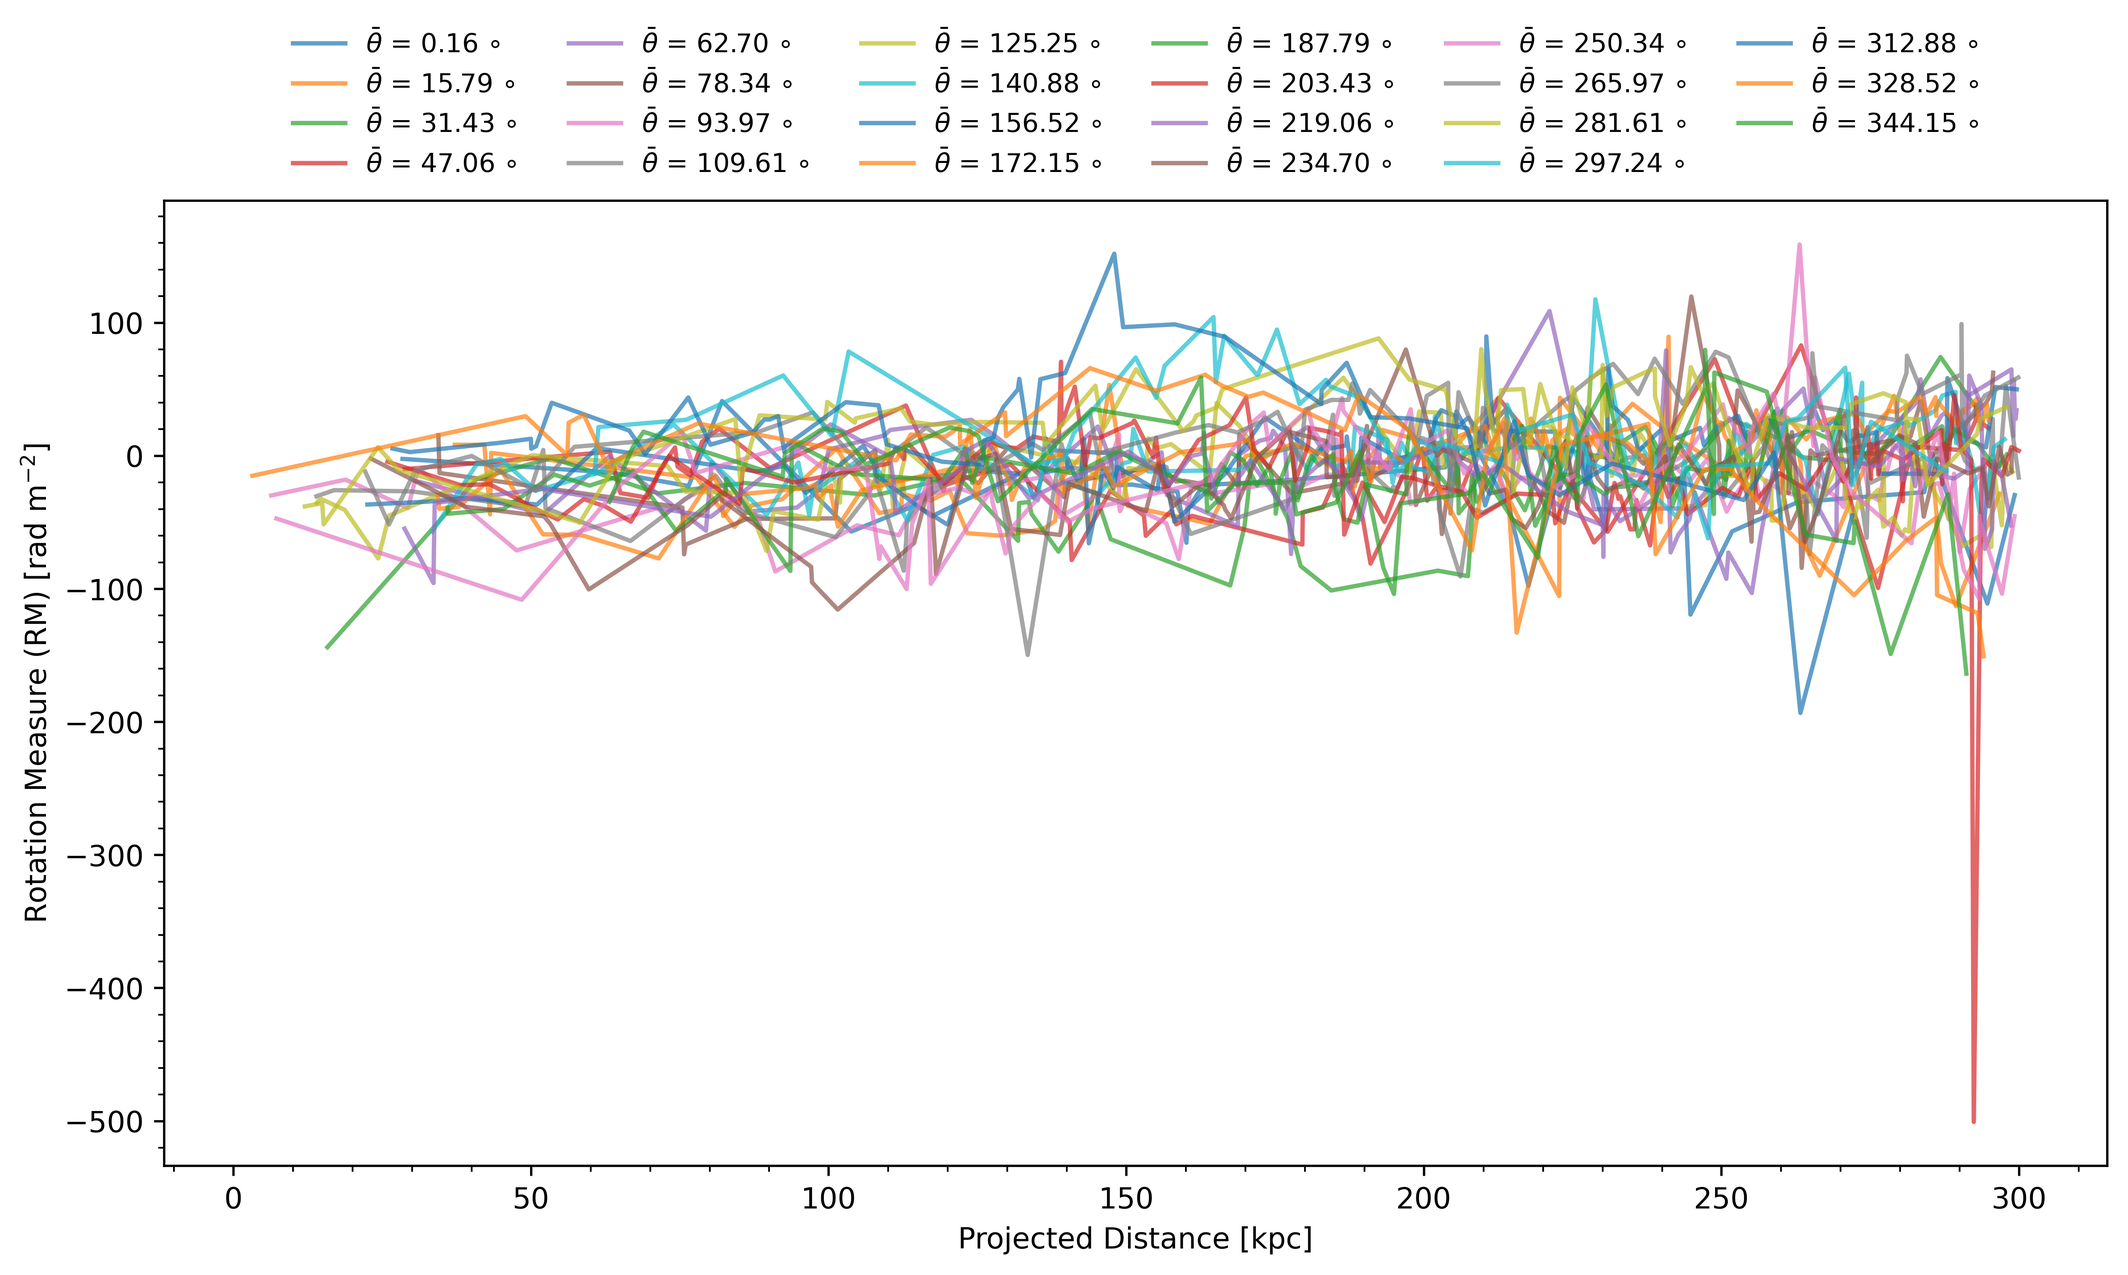
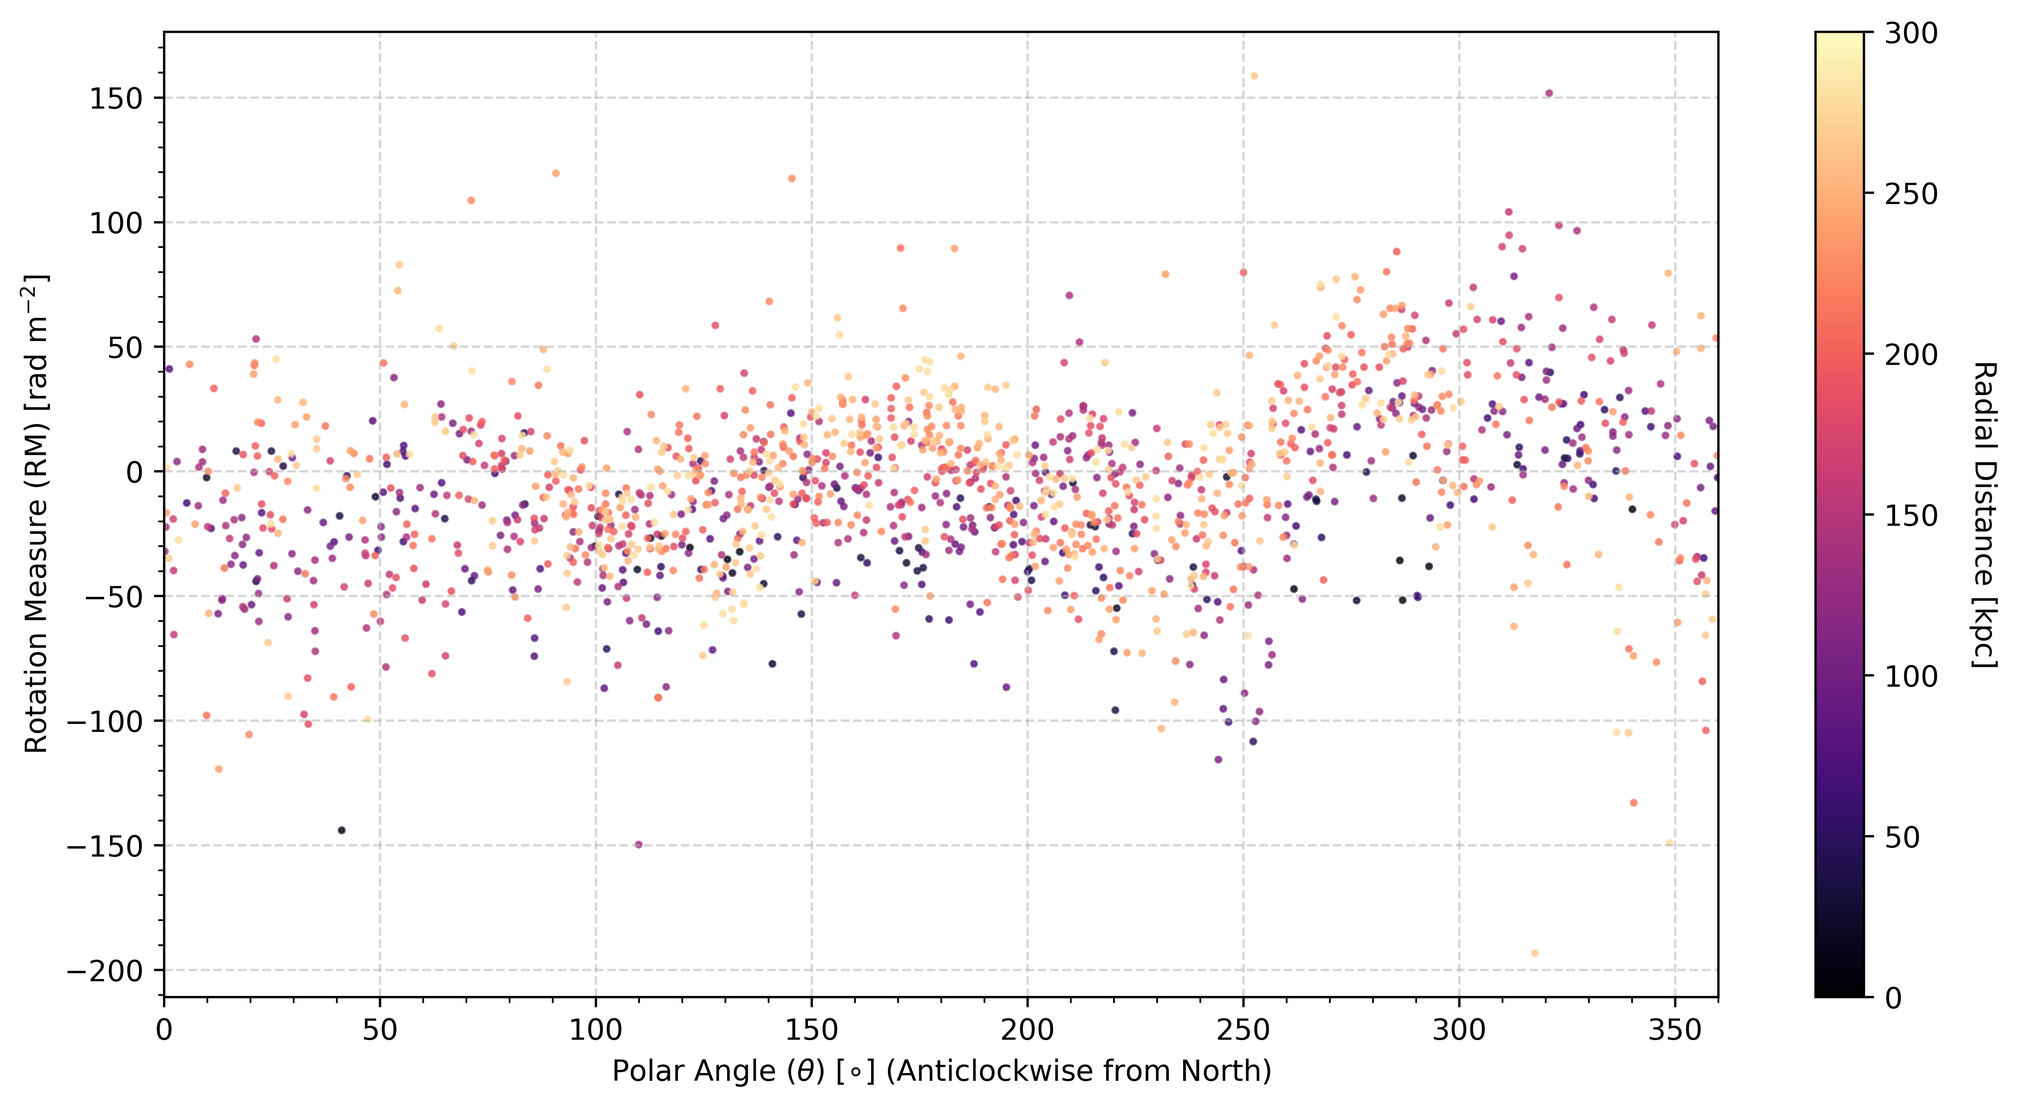
changing the binning of azimuthal plot

diff --git a/M31_signal_vs_entire_sky.py b/M31_signal_vs_entire_sky.py
@@ -236,28 +236,43 @@ def collection_of_points_from_WCS_sphere():#Placing patches on sphere with real 
     
         RM_coords_per_patch.append(RM_coords)
         
-def get_mean_and_med_stats(sep_vals, rm_vals, bin_num):
-    rm_vals = np.abs(rm_vals) # |RM|
+def get_mean_and_med_stats(x_vals, y_vals, bin_num, x_is_r_proj=True, absol=True):
+    
+    """
+    x vals: Polar Angle or Separation Distance measurements
+    y_vals: Usually going to be the Rotation Measures
+    bin_num: (Probably same as variable "bin_num_from_main" =22 )
+    """
+    if absol: y_vals = np.abs(y_vals)
+
+    # print(y_vals); 
+    # print(f"{len(x_vals)=}")
+    # print(f"{len(y_vals)=}")
+    # print(f"{bin_num=}")
     
     #Calculating mean and median of RM values within patch
-    bin_means, bin_edges, binnumber = stats.binned_statistic(sep_vals, rm_vals, statistic='mean', bins=bin_num)
-    bin_med, bin_edges, binnumber = stats.binned_statistic(sep_vals, rm_vals, statistic='median', bins=bin_num)
-    bin_width = (bin_edges[1] - bin_edges[0])
-    bin_centers = bin_edges[1:] - bin_width / 2
+    bin_means, bin_edges_mean, binnumber = stats.binned_statistic(x_vals, y_vals, statistic='mean', bins=bin_num)
+    bin_med, bin_edges_med, binnumber = stats.binned_statistic(x_vals, y_vals, statistic='median', bins=bin_num)
+    bin_width_mean, bin_width_med = (bin_edges_mean[1] - bin_edges_mean[0]) , (bin_edges_med[1] - bin_edges_med[0])
+    bin_centers_mean, bin_centers_med = bin_edges_mean[1:] - bin_width_mean / 2 , bin_edges_med[1:] - bin_width_med / 2
     
-    #Converting to projected distance away from center of m31(in kpc)
-    d_bin_centers = get_projected_d(bin_centers*u.deg, d_m31).value
-    
+
     #Standard error of the mean for error bars
     bin_std, bin_edges, binnumber = stats.binned_statistic(
-        sep_vals, rm_vals,
+        x_vals, y_vals,
         statistic=stats.sem,  # Standard Error of Mean
         bins=bin_num)
 
-    return d_bin_centers, bin_means, bin_med, bin_std, bin_edges
+    if x_is_r_proj: #previously only used edges from median.
+        #Converting to projected distance away from center of m31(in kpc)
+        d_bin_centers = get_projected_d(bin_centers_mean*u.deg, d_m31).value
+        return d_bin_centers, bin_means, bin_med, bin_std, bin_edges
+    
+    else:
+        return bin_centers_mean, bin_centers_med, bin_means, bin_med, bin_std, bin_edges
 
 
-def create_annuli_binning_structure(bin_data, data, bin_num, data_errs=None):
+def create_annuli_binning_structure(bin_data, data, bin_num, data_errs=None, for_azimuth_plot=False):
     """
     Bins x data, assigns y values/errors to bins, 
     and returns structured dictionaries. 
@@ -272,14 +287,14 @@ def create_annuli_binning_structure(bin_data, data, bin_num, data_errs=None):
 
     # Compute bin areas
     annul_area = np.pi * (bin_edges[1:]**2 - bin_edges[:-1]**2)  # Now a NumPy array
-    bin_edges = bin_edges[:-1]  # Maintaining same number of elements as area
+    if not for_azimuth_plot: bin_edges = bin_edges[:-1]  # Maintaining same number of elements as area
 
     # Initialize storage dictionaries
     Dicts = []
     for j in range(len(data)):  # In case it's for x and y axis for non-histogram/bar plots
-        y_per_bin = {i: [] for i in range(0, bin_num)}  # Bin indices go from 1 to bin_num-1
+        y_per_bin = {i: [] for i in range(0, bin_num+1)}  # Bin indices go from 1 to bin_num (instead of bin_num-1)
         if data_errs is not None:
-            y_err_per_bin = {i: [] for i in range(0, bin_num)}
+            y_err_per_bin = {i: [] for i in range(0, bin_num+1)}
             Dicts.append([y_per_bin, y_err_per_bin])
         else:
             Dicts.append([y_per_bin,])
@@ -818,46 +833,155 @@ def annuli_analysis_random(all_means_corr, all_medians_corr, save_plot=False, st
         construct_and_plot_annuli(D_Bin_centers, Avg_Means, Avg_Medians)
 
 
-def plot_binned_azimuth(dist, rm, bin_edges, save_plot=False, poly_order=6):
+def plot_binned_azimuth(PA, RM, bin_edges, save_plot=False, poly_order=1):
     """
-    Plots Rotation Measure (RM) as a function of distance according to binned azimuth (in the anticlockwise direction).
+    Plots Rotation Measure (RM) as a function of polar angle/Azimuth (in the anticlockwise direction) according to binned distance from center of m31
     """
+    # """
+    # Plots Rotation Measure (RM) as a function of distance according to binned azimuth (in the anticlockwise direction).
+    # """
 
-    plt.figure(figsize=(12, 6))
-    for bin_idx, bin_edge in enumerate(bin_edges):
+    #For distances
+    bin_width = bin_edges[1] - bin_edges[0]
+    bin_centers = bin_edges - bin_width / 2
 
-        bin_idx +=1
-        #Sorting indices based on dist[bin_idx]
-        sorted_idx = np.argsort(dist[bin_idx])
-        sorted_dist = dist[bin_idx][sorted_idx]
-        sorted_rm = rm[bin_idx][sorted_idx]
+    # plt.figure(figsize=(12, 6))
+    # for bin_idx, bin_cent in enumerate(bin_centers, 1):
 
-        plt.plot(sorted_dist, sorted_rm, 
-                    marker="", alpha=0.7,
-                    label= r"$\bar{\theta}$ = " + f"{bin_edge:.2f} "+ r"$\circ$"
-                    )
+        # #Sorting indices based on dist[bin_idx]
+        # sorted_idx = np.argsort(dist[bin_idx])
+        # sorted_dist = dist[bin_idx][sorted_idx]
+        # sorted_rm = rm[bin_idx][sorted_idx]
+
+        # plt.plot(sorted_dist, sorted_rm, 
+        #             marker=".", alpha=0.7, linestyle="", markersize=0.4,
+        #             label= r"$\bar{\theta}$ = " + f"{bin_cent:.2f}"+ r"$^{\circ}$"
+        #             )
 
         # # Fit a polynomial to the data
         # try:
-        #     coeffs = np.polyfit(PA[bin_idx], rm[bin_idx], poly_order)
+        #     coeffs = np.polyfit(dist[bin_idx], rm[bin_idx], poly_order)
         #     poly_func = np.poly1d(coeffs)
 
-        #     x_fit = np.linspace(min(PA[bin_idx]), max(PA[bin_idx]), 1000)
+        #     x_fit = np.linspace(min(dist[bin_idx]), max(dist[bin_idx]), 1000)
         #     y_fit = poly_func(x_fit)
 
-        #     plt.plot(x_fit, y_fit, color="red", linestyle="--", label=f"Poly Fit (Order {poly_order})")
+        #     plt.plot(x_fit, y_fit, linestyle="--")#, label=f"Poly Fit (Order {poly_order})")
         # except np.linalg.LinAlgError:
         #     print(f"Polynomial fitting failed for bin {bin_idx}")
 
-        plt.xlabel("Projected Distance [kpc]")
+        # plt.xlabel("Projected Distance [kpc]")
+        # plt.ylabel("Rotation Measure (RM) " + r"[rad m$^{-2}$]")
+        # # plt.grid(True, linestyle='--', alpha=0.5)
+
+    # if save_plot:
+    #     path = curr_dir_path() + "Results/"
+    #     plt.legend(fontsize = 9, loc = 'upper center', bbox_to_anchor = (0.5, 1.2),
+    #             framealpha = 0, ncols = 6)
+        # plt.minorticks_on()
+    #     plt.savefig(f"{path}Azimuthal_bin_plots.png", dpi=600, bbox_inches="tight")
+    #     plt.close()
+    # else:
+    #     plt.show()
+
+    bin_centers_mean_GMMStats = []
+    bin_centers_med_GMMStats = []
+    bin_means_GMMStats = []
+    bin_med_GMMStats = []
+    bin_std_GMMStats = []
+    bin_edges_GMMStats = []
+    
+    #from Dictionaries to list of np.ndarray siblists (if need be)
+    RM_new = [rm for rm in RM.values()] if isinstance(RM, dict) else RM
+    PA_new = [pa for pa in PA.values()] if isinstance(PA, dict) else PA
+    
+    for i in range(len(RM_new)): #Assuming ranges of RA and PA are equivalent
+        
+        if not (RM_new[i].shape == ()):  #Checking if its not empty or filled with NaNs
+            if not (RM_new[i].shape[0] < 15):  # Ensure sufficient number of points for stats module to work
+                #Note , this inner binning is for a clean 30 bins due to 360 degrees azimuth
+                bin_cent_mean, bin_cent_med, bin_mean, bin_med, bin_std, bin_edges = get_mean_and_med_stats(PA_new[i],RM_new[i], bin_num=30, x_is_r_proj=False, absol=False)
+                bin_centers_mean_GMMStats.append(bin_cent_mean) #For x axis
+                bin_centers_med_GMMStats.append(bin_cent_med) #For x axis
+                bin_means_GMMStats.append(bin_mean) #For y-axis
+                bin_med_GMMStats.append(bin_med) #For y-axis
+                bin_std_GMMStats.append(bin_std)
+                bin_edges_GMMStats.append(bin_edges) #Havent been used for anything yet....
+
+    #This code below was hashed out since it doesnt make a difference in cleaning up the messy looking plot
+    # #sorting in terms of Polar angle (x-axis) (respectively for mean and median)
+    # sorted_idx_mean = [np.argsort(lst) for lst in bin_centers_mean_GMMStats]
+    # sorted_idx_med = [np.argsort(lst) for lst in bin_centers_med_GMMStats]
+    # bin_centers_mean_GMMStats = [lst[idx] for lst, idx in zip(bin_centers_mean_GMMStats,sorted_idx_mean)]
+    # bin_centers_med_GMMStats = [lst[idx] for lst, idx in zip(bin_centers_med_GMMStats,sorted_idx_med)]
+    # bin_means_GMMStats = [lst[idx] for lst, idx in zip(bin_means_GMMStats, sorted_idx_mean)]
+    # bin_med_GMMStats = [lst[idx] for lst, idx in zip(bin_med_GMMStats, sorted_idx_med)]
+
+    L = (bin_centers_mean_GMMStats, bin_centers_med_GMMStats, 
+         bin_means_GMMStats, bin_med_GMMStats, 
+         bin_std_GMMStats, bin_edges_GMMStats)
+    
+    (bin_centers_mean_GMMStats, bin_centers_med_GMMStats,
+     bin_means_GMMStats, bin_med_GMMStats, 
+     bin_std_GMMStats, bin_edges_GMMStats) = map(np.asarray, L)
+
+    def apply_plot_attributes(push_title_up = 1.3, leg=True):
+        plt.xlabel("Polar Angle " r"$(\theta)$ [$\circ$] " + "(Anticlockwise from North)")
         plt.ylabel("Rotation Measure (RM) " + r"[rad m$^{-2}$]")
-        # plt.grid(True, linestyle='--', alpha=0.5)
+        if leg:
+            plt.legend(fontsize = 9, loc = 'upper center', bbox_to_anchor = (0.5, push_title_up),
+                        framealpha = 0, ncols = 6)
+        plt.grid(True, linestyle='--', alpha=0.5)
+        plt.minorticks_on() 
+        plt.xlim(0,360)
+
+    plt.figure(figsize=(16,8))
+    
+
+    # plt.errorbar(bin_centers_mean_GMMStats.flatten(), bin_means_GMMStats.flatten(), yerr = bin_std_GMMStats.flatten(), 
+    #             color="blue", fmt = '.', alpha=.6, label="Mean")
+    plt.errorbar(bin_centers_med_GMMStats.flatten(), bin_med_GMMStats.flatten(), yerr=bin_std_GMMStats.flatten(), 
+                ecolor='r', marker="", linestyle="", capsize=0, alpha=.5, elinewidth=1)#, label="Median")
+    # print(f"{bin_std_GMMStats.flatten()}") #shows that there are a few nan vlaues for std
+    
+    # plt.scatter(bin_centers_mean_GMMStats, bin_means_GMMStats, label="Mean")
+    plt.scatter(bin_centers_med_GMMStats, bin_med_GMMStats, label="Median", marker="s", color="k", s=1)
+    
+    plt.title("Median")
+
+    apply_plot_attributes(push_title_up=1.1, leg=False)
 
     if save_plot:
         path = curr_dir_path() + "Results/"
-        plt.legend(fontsize = 9, loc = 'upper center', bbox_to_anchor = (0.5, 1.2),
-                framealpha = 0, ncols = 6)
-        plt.minorticks_on()
+        plt.savefig(f"{path}Azimuthal_bin_plots_median.png", dpi=600, bbox_inches="tight")
+    else:
+        plt.show()
+    
+    #Normalizing bin_centers for colormap
+    norm = plt.Normalize(vmin=0, #min(bin_centers), 
+                         vmax=300) #max(bin_centers))
+    cmap = plt.cm.magma  # Using magma colormap
+
+    fig,ax = plt.subplots(1,1, figsize=(12, 6))
+    # print(f"{len(PA)=}")
+    # print(f"{len(bin_centers)=}") ; import sys ; sys.exit()
+
+    for bin_idx in range(len(RM)):
+         if bin_idx in RM:
+            ax.scatter(PA[bin_idx], RM[bin_idx], marker=".", alpha=0.7, s=12,
+                        #label= f"{bin_centers[bin_idx]:.2f}"+ r"$[kpc]$",
+                        color=cmap(norm(bin_centers[bin_idx])))
+             
+    #Adding colorbar to indicate bin_centers values
+    sm = plt.cm.ScalarMappable(cmap=cmap, norm=norm)
+    sm.set_array([])  # Required for colorbar
+    cbar = plt.colorbar(sm, ax=ax)
+    cbar.set_label("Radial Distance [kpc]", rotation=-90, labelpad=20)
+
+    apply_plot_attributes(leg=False)
+
+    if save_plot:
+        path = curr_dir_path() + "Results/"
         plt.savefig(f"{path}Azimuthal_bin_plots.png", dpi=600, bbox_inches="tight")
         plt.close()
     else:
@@ -1215,74 +1339,74 @@ patch_ra_points, patch_dec_points = get_random_points(num=number_of_patches,
 Patch_pos = SkyCoord(ra=patch_ra_points, dec=patch_dec_points, unit=(u.deg,u.deg), frame='icrs')
 print("Saved random points as SkyCoord")
 
-# RM_coords_per_patch will be filled with values when "collection_of_points_from_WCS_sphere()" is called
-# Same goes for RM_values_per_patch
-RM_values_per_patch, RM_coords_per_patch = [], []
+# # RM_coords_per_patch will be filled with values when "collection_of_points_from_WCS_sphere()" is called
+# # Same goes for RM_values_per_patch
+# RM_values_per_patch, RM_coords_per_patch = [], []
 
-#Creating axis that will be used when doing WCS axis point collections
-fig1 = plt.figure(figsize=(6, 5))
-ax1 = fig1.add_subplot(111, projection=get_wcs("LGSNLGSR.SQLGBB.FITS"), slices=('x', 'y', 0, 0))
-fig1.clf() #No need to show figure. Only axis is needed
+# #Creating axis that will be used when doing WCS axis point collections
+# fig1 = plt.figure(figsize=(6, 5))
+# ax1 = fig1.add_subplot(111, projection=get_wcs("LGSNLGSR.SQLGBB.FITS"), slices=('x', 'y', 0, 0))
+# fig1.clf() #No need to show figure. Only axis is needed
 
-print("(No longer plotting) but collecting of points from each circular patch has begun...")
-collection_of_points_from_WCS_sphere() #IMPORTANT
-print("Collection of points by each circular patch on WCS sphere is complete")
+# print("(No longer plotting) but collecting of points from each circular patch has begun...")
+# collection_of_points_from_WCS_sphere() #IMPORTANT
+# print("Collection of points by each circular patch on WCS sphere is complete")
 
-print("Getting separation of RM from center of relative patch")
-#Get separation of RM from center of relative patch.
-RM_coords_sep = [rm_coords.separation(patch_pos) 
-                 for rm_coords, patch_pos in 
-                 list(zip(RM_coords_per_patch, Patch_pos))]
+# print("Getting separation of RM from center of relative patch")
+# #Get separation of RM from center of relative patch.
+# RM_coords_sep = [rm_coords.separation(patch_pos) 
+#                  for rm_coords, patch_pos in 
+#                  list(zip(RM_coords_per_patch, Patch_pos))]
 
-all_d_bin_centers=[] #For x-axis
-all_means = []
-all_medians = []
-all_bin_stds = []
-all_bin_edges = ''
+# all_d_bin_centers=[] #For x-axis
+# all_means = []
+# all_medians = []
+# all_bin_stds = []
+# all_bin_edges = ''
 
-fig2 = plt.figure(figsize=(10, 5))
-ax2 = fig2.add_subplot(111)
-print("Mean and Median calculations have begun")
-for i in range(len(RM_coords_sep)): #Searching through each patch
+# fig2 = plt.figure(figsize=(10, 5))
+# ax2 = fig2.add_subplot(111)
+# print("Mean and Median calculations have begun")
+# for i in range(len(RM_coords_sep)): #Searching through each patch
     
-    if not (RM_coords_per_patch[i].shape == ()):  #Checking if its not empty or filled with NaNs
-        if not (RM_coords_per_patch[i].shape[0] < 15):  # Ensure sufficient number of points for stats module to work
-            d_bin_centers, bin_mean, bin_med, bin_std, bin_edges = get_mean_and_med_stats(RM_coords_sep[i], RM_values_per_patch[i], bin_num=BINS)
+#     if not (RM_coords_per_patch[i].shape == ()):  #Checking if its not empty or filled with NaNs
+#         if not (RM_coords_per_patch[i].shape[0] < 15):  # Ensure sufficient number of points for stats module to work
+#             d_bin_centers, bin_mean, bin_med, bin_std, bin_edges = get_mean_and_med_stats(RM_coords_sep[i], RM_values_per_patch[i], bin_num=BINS)
             
-            all_d_bin_centers.append(d_bin_centers) #For x axis
-            all_means.append(bin_mean) #For y-axis
-            all_medians.append(bin_med) #For y-axis
-            all_bin_stds.append(bin_std)
+#             all_d_bin_centers.append(d_bin_centers) #For x axis
+#             all_means.append(bin_mean) #For y-axis
+#             all_medians.append(bin_med) #For y-axis
+#             all_bin_stds.append(bin_std)
 
-            if i == 0 : #Only collect bin edges once
-                all_bin_edges = bin_edges
+#             if i == 0 : #Only collect bin edges once
+#                 all_bin_edges = bin_edges
 
-            #Background correction for the individual plots
-            bin_mean_1 = indiv_bg_corr(bin_mean, d_bin_centers)
-            bin_med_1 = indiv_bg_corr(bin_med, d_bin_centers)
+#             #Background correction for the individual plots
+#             bin_mean_1 = indiv_bg_corr(bin_mean, d_bin_centers)
+#             bin_med_1 = indiv_bg_corr(bin_med, d_bin_centers)
 
-            #This has been commented out to remove clatter
-            #The they are all being collected and will be averaged to make a final one
-            # plot_indidividual_patch_stats(ax2, d_bin_centers, bin_mean_1, bin_med_1, bin_std)
+#             #This has been commented out to remove clatter
+#             #The they are all being collected and will be averaged to make a final one
+#             # plot_indidividual_patch_stats(ax2, d_bin_centers, bin_mean_1, bin_med_1, bin_std)
             
-print("Mean and Median calculations have ended")
+# print("Mean and Median calculations have ended")
 
-data_to_pickle = {
-    "ax2": ax2,
-    "fig2": fig2,
-    "RM_values_per_patch": RM_values_per_patch, 
-    "RM_coords_per_patch": RM_coords_per_patch,
-    "RM_coords_sep": RM_coords_sep,
-    "all_d_bin_centers": all_d_bin_centers,
-    "all_means": all_means,
-    "all_medians": all_medians,
-    "all_bin_stds": all_bin_stds,
-    "all_bin_edges": all_bin_edges
-}
+# data_to_pickle = {
+#     "ax2": ax2,
+#     "fig2": fig2,
+#     "RM_values_per_patch": RM_values_per_patch, 
+#     "RM_coords_per_patch": RM_coords_per_patch,
+#     "RM_coords_sep": RM_coords_sep,
+#     "all_d_bin_centers": all_d_bin_centers,
+#     "all_means": all_means,
+#     "all_medians": all_medians,
+#     "all_bin_stds": all_bin_stds,
+#     "all_bin_edges": all_bin_edges
+# }
 
-with open("../RM_stats.pkl", "wb") as f:
-    pickle.dump(data_to_pickle, f)
-print("Mean and Median calculations have been pickled successfully!")
+# with open("../RM_stats.pkl", "wb") as f:
+#     pickle.dump(data_to_pickle, f)
+# print("Mean and Median calculations have been pickled successfully!")
 
 with open("../RM_stats.pkl", "rb") as f:
     loaded_data = pickle.load(f)
@@ -1400,7 +1524,7 @@ if __name__ == "__main__": #continue (this makes it easier to excecute "M31_sign
         m31_distances = tuple(map(get_projected_d, m31_sep_Rvir, [d_m31]*len(m31_sep_Rvir))) #from seprated distance in degrees - within CGM of M31 - to kpc
         m31_distances = list(map(lambda m31_d: m31_d.value, m31_distances))
         PA_rm_deg = PA_rm_rad.to(u.deg).value %360 #Converting from radians to degrees
-        [distance_per_PA_bin, rm_per_PA_bin], _, bin_edges = create_annuli_binning_structure(bin_data=PA_rm_deg, data=(m31_distances, rm_m31), bin_num=bin_num_from_main+2)
+        [distance_per_PA_bin, rm_per_PA_bin], _, bin_edges = create_annuli_binning_structure(bin_data=m31_distances, data=(PA_rm_deg, rm_m31), bin_num=bin_num_from_main+1, for_azimuth_plot=True)
         plot_binned_azimuth(distance_per_PA_bin, rm_per_PA_bin, bin_edges, save_plot=True)
 
     if args.m31_ks_test:
